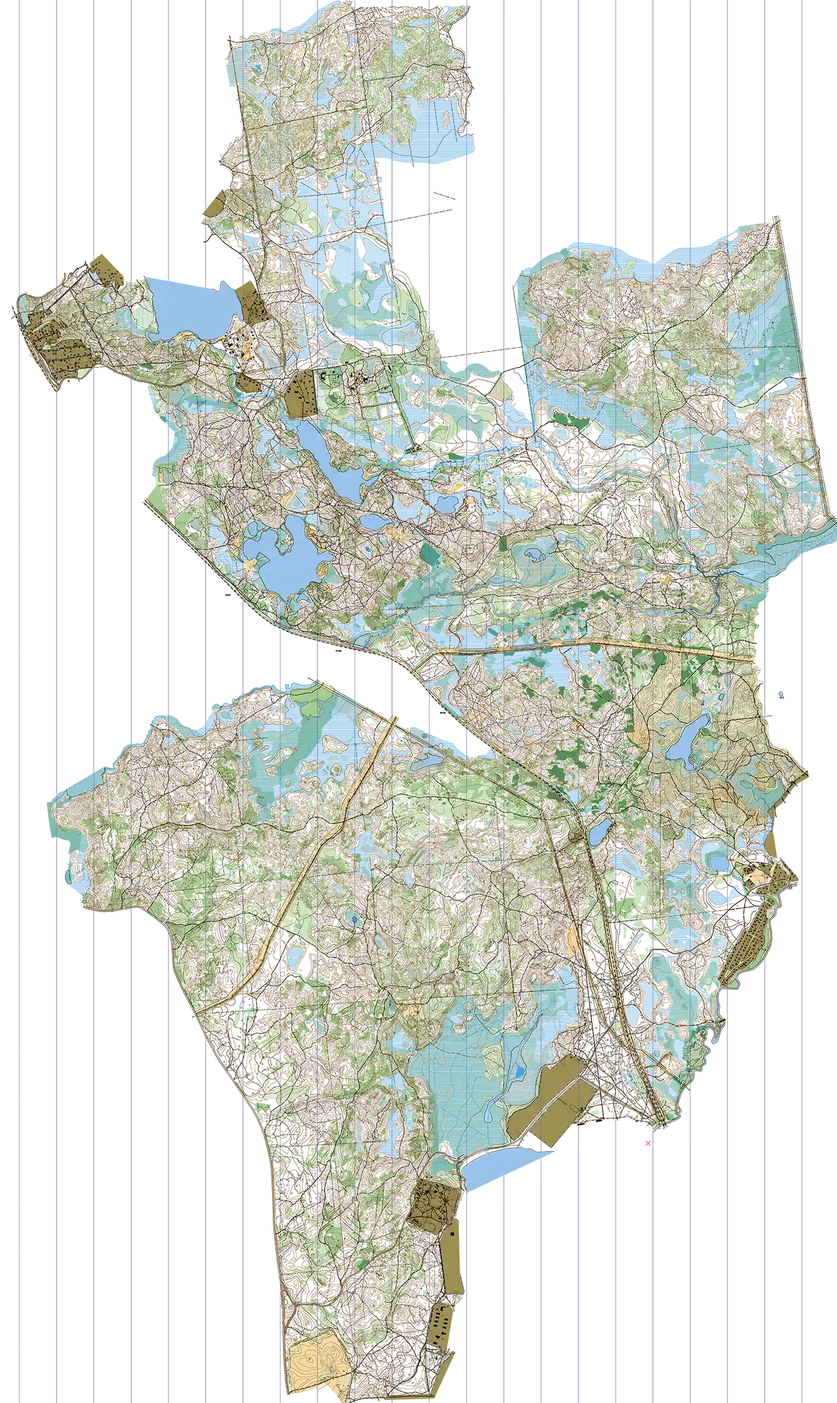
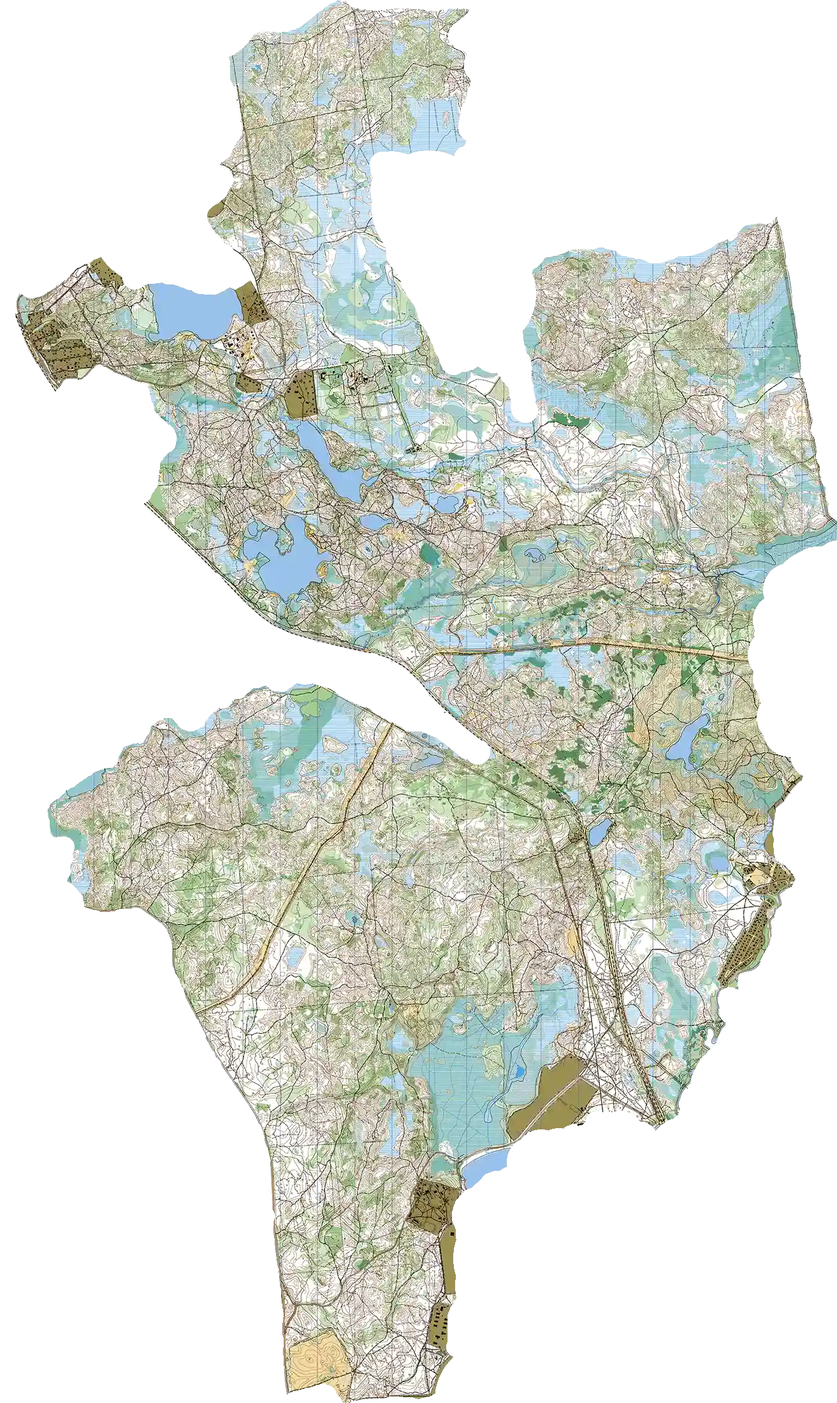
Две карты в Петяярви от Шеина + убрал прозрачность в Токмаковских

diff --git a/js/maps-forest.js b/js/maps-forest.js
@@ -202,16 +202,25 @@ var forestMaps = [
         types: ['ORIENT'],
     },
     {
-        name: 'Гатчина - Приоратский парк',
-        year: 1993,
-        url: './maps/forest/gatchina_prioratsky_1993.jpg',
-        bounds: [[59.564288612046575, 30.104985237121586], [59.56391903546187, 30.13755798339844], [59.54036646911923, 30.10236740112305]],
+        name: 'Петяярви - запад',
+        year: 2019,
+        url: './maps/forest/petyajarvi_west_2019.webp',
+        bounds: [[60.632080185395296, 30.048379898071293], [60.630564811411745, 30.083227157592773], [60.61342771193733, 30.044517517089847]],
+        owner: 'SHEIN',
+        types: ['ORIENT'],
+    },
+    {
+        name: 'Петяярви - юг',
+        year: 2019,
+        url: './maps/forest/petyajarvi_south_2019.webp',
+        bounds: [[60.61098482874486, 30.08786201477051], [60.609426341120916, 30.123052597045902], [60.59857802491448, 30.08563041687012]],
+        owner: 'SHEIN',
         types: ['ORIENT'],
     },
     {
         name: 'Петяярви',
         url: './maps/forest/petyajarvi.webp',
-        bounds: [[60.63460565043869, 30.07387161254883], [60.62879678508205, 30.16176223754883], [60.61490177611652, 30.068035125732425]],
+        bounds: [[60.635110719708734, 30.071811676025394], [60.62888097901027, 30.160732269287113], [60.61443850605954, 30.068721771240238]],
         types: ['ORIENT'],
     },
     {
@@ -225,6 +234,13 @@ var forestMaps = [
         year: 2007,
         url: './maps/forest/yagodnoe_2007.webp',
         bounds: [[60.63142774143866, 29.87062454223633], [60.62281845428025, 29.97005939483643], [60.605277027435896, 29.86114025115967]],
+        types: ['ORIENT'],
+    },
+    {
+        name: 'Гатчина - Приоратский парк',
+        year: 1993,
+        url: './maps/forest/gatchina_prioratsky_1993.jpg',
+        bounds: [[59.564288612046575, 30.104985237121586], [59.56391903546187, 30.13755798339844], [59.54036646911923, 30.10236740112305]],
         types: ['ORIENT'],
     },
     {
@@ -285,7 +301,7 @@ var forestMaps = [
         url: './maps/forest/lembolovo_orekhovo_2023.webp',
         bounds: [[60.49050720754783, 30.263643264770508], [60.482684939856334, 30.385179519653324], [60.38871288792411, 30.23471832275391]],
         owner: 'TOKM',
-        types: ['ORIENT', 'CITY'],
+        types: ['ORIENT'],
     },
     {
         name: 'оз Силанде',
